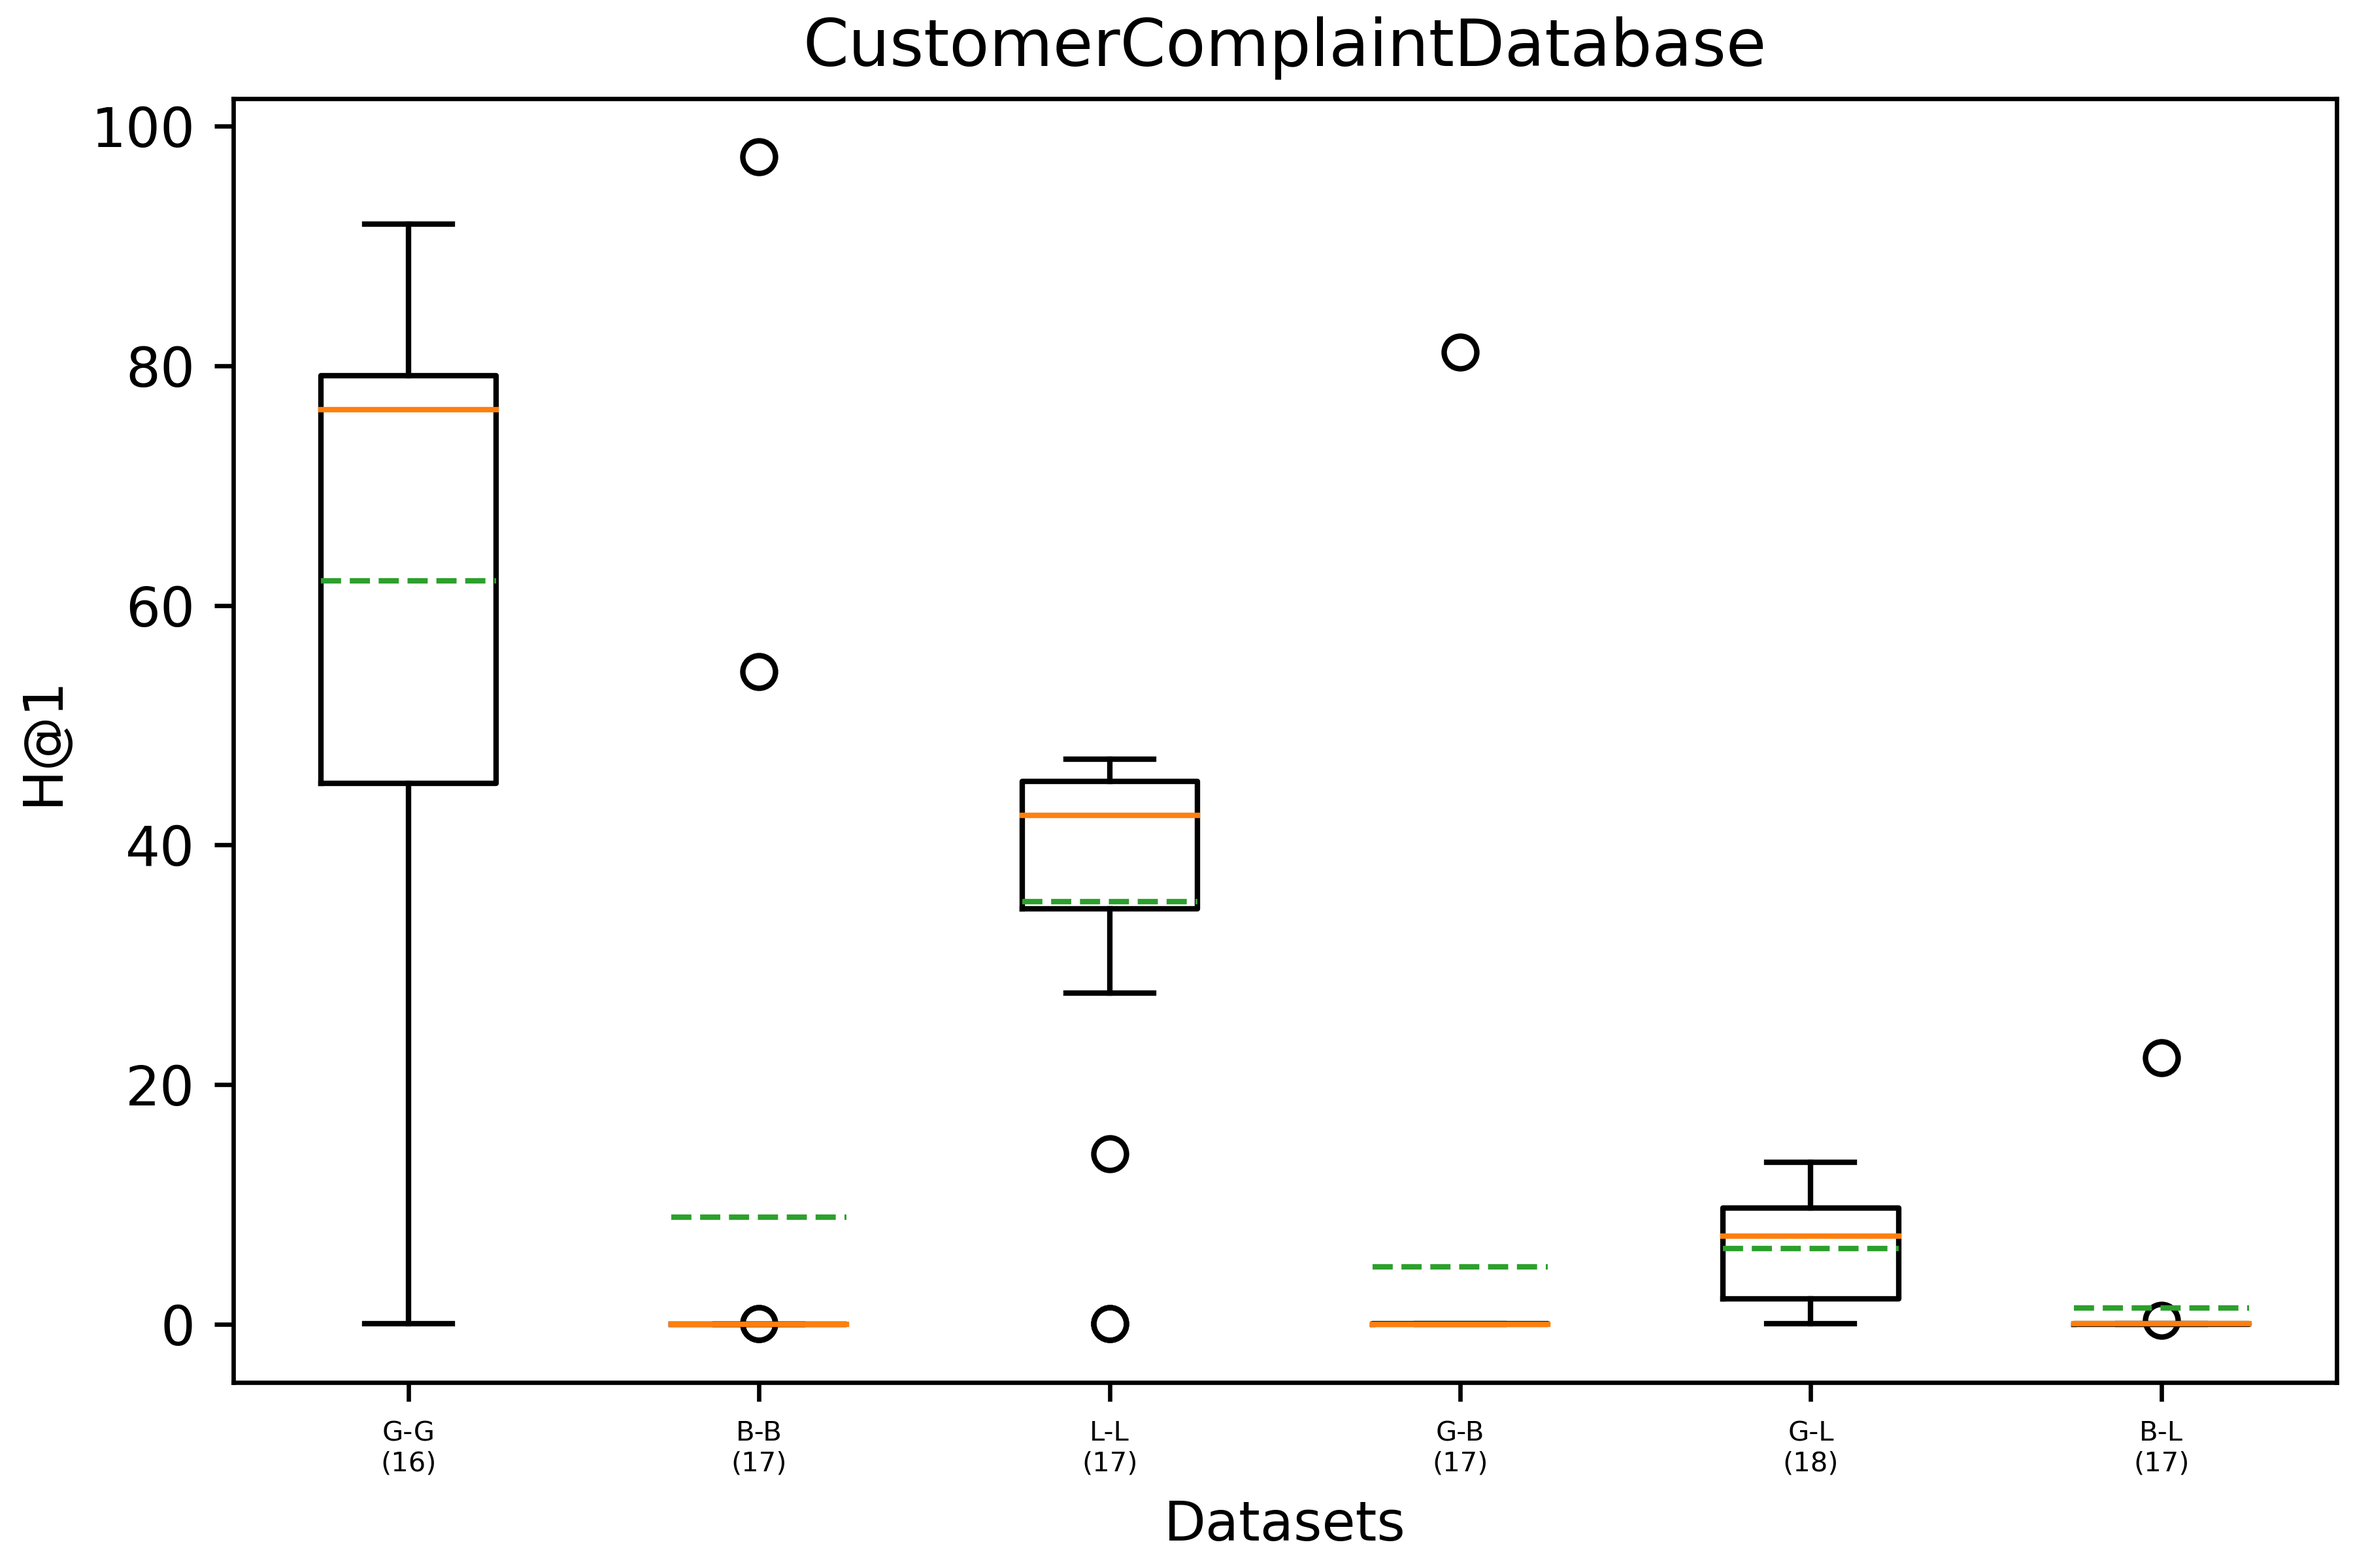
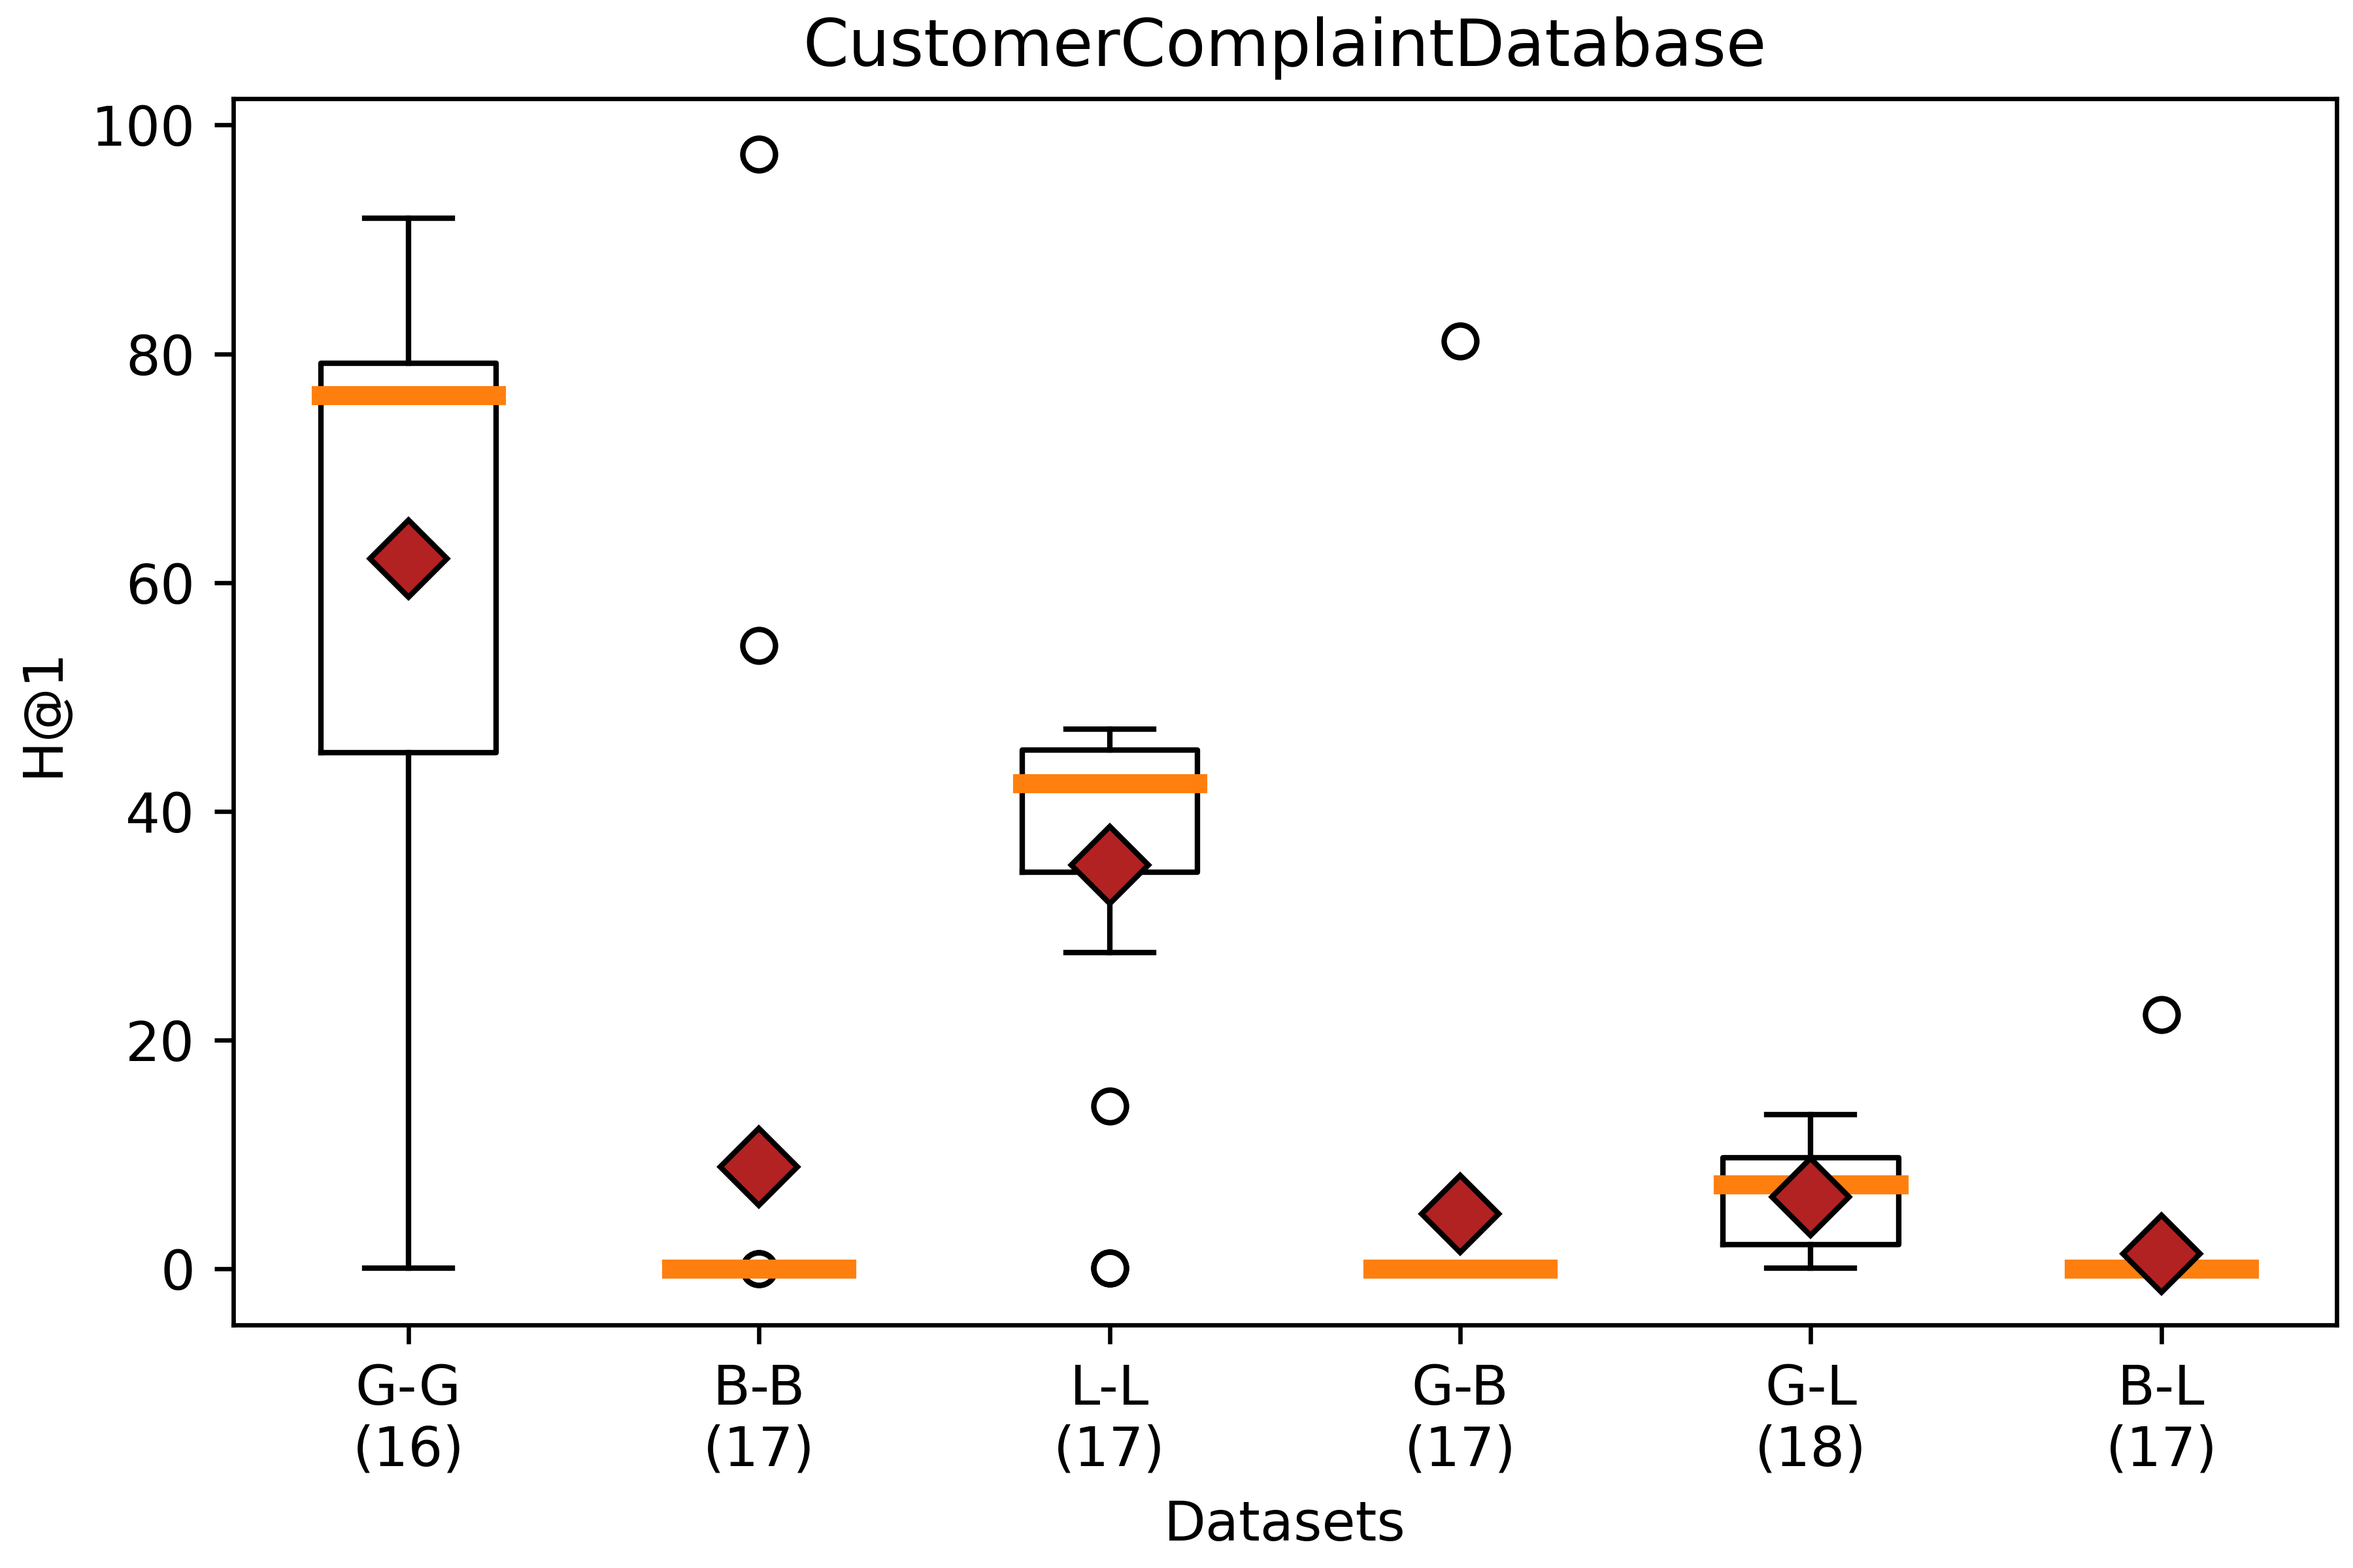
Update Figures Customer Complaint Database

diff --git a/CustomerComplaintDatabase/CustomerComplaintDatabase.md b/CustomerComplaintDatabase/CustomerComplaintDatabase.md
@@ -318,17 +318,21 @@
 
 ## Results
 
-![Boxplot Datasets CustomerComplaint Data](./Figures/boxplotDatasetsPairs.png "Boxplot Datasets CustomerComplaint Data")
-
-![Heatmap CustomerComplaint Data](./Figures/clusterApproaches.png "Heatmap CustomerComplaint Data")
+<figcaption><strong>Figure Methods Boxplot.</strong> Boxplot of the OpenEA methods according to the Hits@1 metric of the 6 pairwise comparisons of the KGs generated from the Customer Complaint Database dataset. The orange solid line represents the median and the red diamond the mean of the experiments that did not lead to an error. The number of experiments without error is shown in brackets next to the name of the method. BootEA-TransH, ConvE, KDCoE and MultiKE are not shown because their error rate is equal to 1 for all datasets.</figcaption>
 
 ![Boxplot Approaches CustomerComplaint Data](./Figures/boxplotApproaches.png "Boxplot Approaches CustomerComplaint Data")
 
-![BarChart Comparisons Approaches CustomerComplaint Data](./Figures/barComparison.png "BarChart Comparisons Approaches CustomerComplaint Data")
+<figcaption><strong>Figure Methods Clustering.</strong> Hierarchical clustering (Ward algorithm) of 25 OpenEA methods according to the 5 metrics for the 6 pairwise comparisons of the KGs generated from the Customer Complaint Database dataset.</figcaption>
 
-![Heatmap Datasets CustomerComplaint Data](./Figures/heatmapDataset.png "Heatmap Datasets CustomerComplaint Data")
+![Heatmap CustomerComplaint Data](./Figures/clusterApproaches.png "Heatmap CustomerComplaint Data")
 
-![Heatmap Datasets AttrE-BootEA CustomerComplaint Data](./Figures/heatmapDatasetAttBoot.png "Heatmap Datasets AttrE-BootEA CustomerComplaint Data")
+<figcaption><strong>Figure Experiments Boxplot.</strong> Boxplot of the 6 types of pairwise comparison experiments of KGs based on the Hits@1 score obtained by the 25 methods carried out in the Customer Complaint Database dataset. The orange solid line represents the median and the red diamond the mean of the experiments that did not lead to an error. The number of modules that did not generate an error is shown in brackets under the name of the experiment represented.</figcaption>
+
+![Boxplot Datasets CustomerComplaint Data](./Figures/boxplotDatasetsPairs.png "Boxplot Datasets CustomerComplaint Data")
+
+<figcaption><strong>Figure Experiments Clustering.</strong> Hierarchical clustering, with method Ward, of the 6 types of pairwise comparison experiments of KG, according to the 5 metrics, with all the values scaled to the range [0,1], of the 25 (at most) OpenEA modules carried out in the Customer Complaint Database dataset.</figcaption>
+
+![Clustering Datasets CustomerComplaint Data](./Figures/clusterDataset.png "Clustering Datasets CustomerComplaint Data")
 
 ## Merged methods
 
